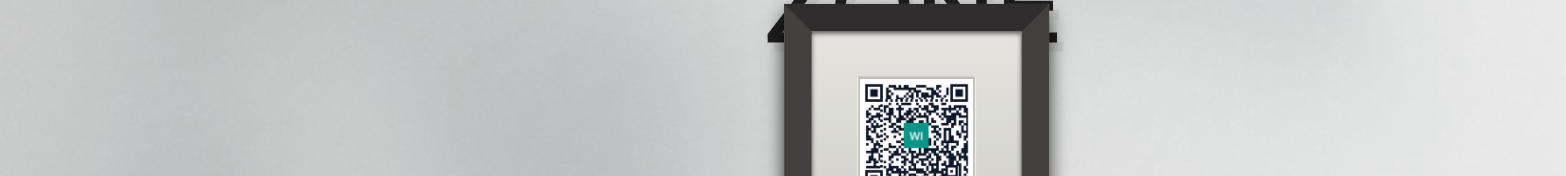
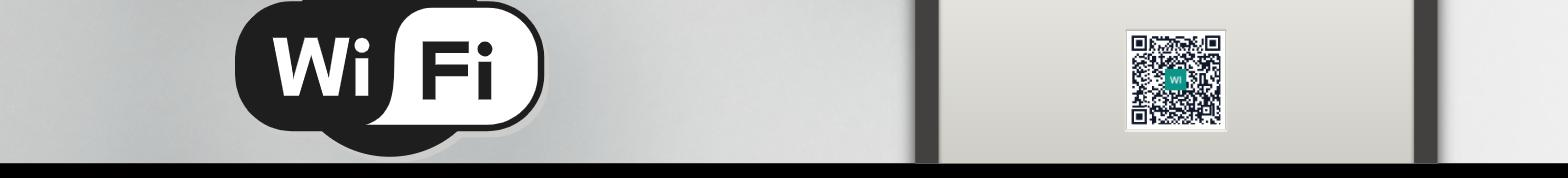
🐛 fix stray trailing comma forcing .main to always stack in a column
.portrait, .v-banner,
  .main
    flex-direction: column

The trailing comma after .v-banner made Sass treat the indented .main
as a THIRD top-level selector in the same comma list, instead of
nesting it under .portrait/.v-banner as intended - compiling to
`.portrait,.v-banner,.main{flex-direction:column}`, which forced
flex-direction:column on every .main regardless of format. This broke
landscape and h-banner: the WiFi logo and the QR-code frame stacked
vertically instead of sitting side by side. Removed the trailing comma
so it compiles to `.portrait .main,.v-banner .main{...}`, correctly
scoped to just those two formats.

Also fixed the same class of bug in wifi-qrcode/style.sass: `#Frames`
followed by an unindented `#Frame` on the next line meant `#Frames`
was a separate, fully empty rule (a Sass build warning) instead of
sharing margin/padding/text-align with `#Frame` as intended - joined
them with a comma.

Verified: build/assets/*.css now shows `.portrait .main,.v-banner
.main{flex-direction:column}`, zero Sass build warnings, and all 5
screen-format screenshots recaptured to reflect the fix (landscape and
h-banner now show the logo and QR frame side by side; portrait,
square, and v-banner were already unaffected but recaptured too for
consistency).

diff --git a/src/components/main/style.sass b/src/components/main/style.sass
@@ -27,7 +27,7 @@
     img
       width: 40%
 
-.portrait, .v-banner,
+.portrait, .v-banner
   .main
     flex-direction: column
     .wifi-symbol

diff --git a/src/components/wifi-qrcode/style.sass b/src/components/wifi-qrcode/style.sass
@@ -1,5 +1,4 @@
-#Frames
-#Frame
+#Frames, #Frame
   margin: 0px
   padding: 0px
   text-align: center
